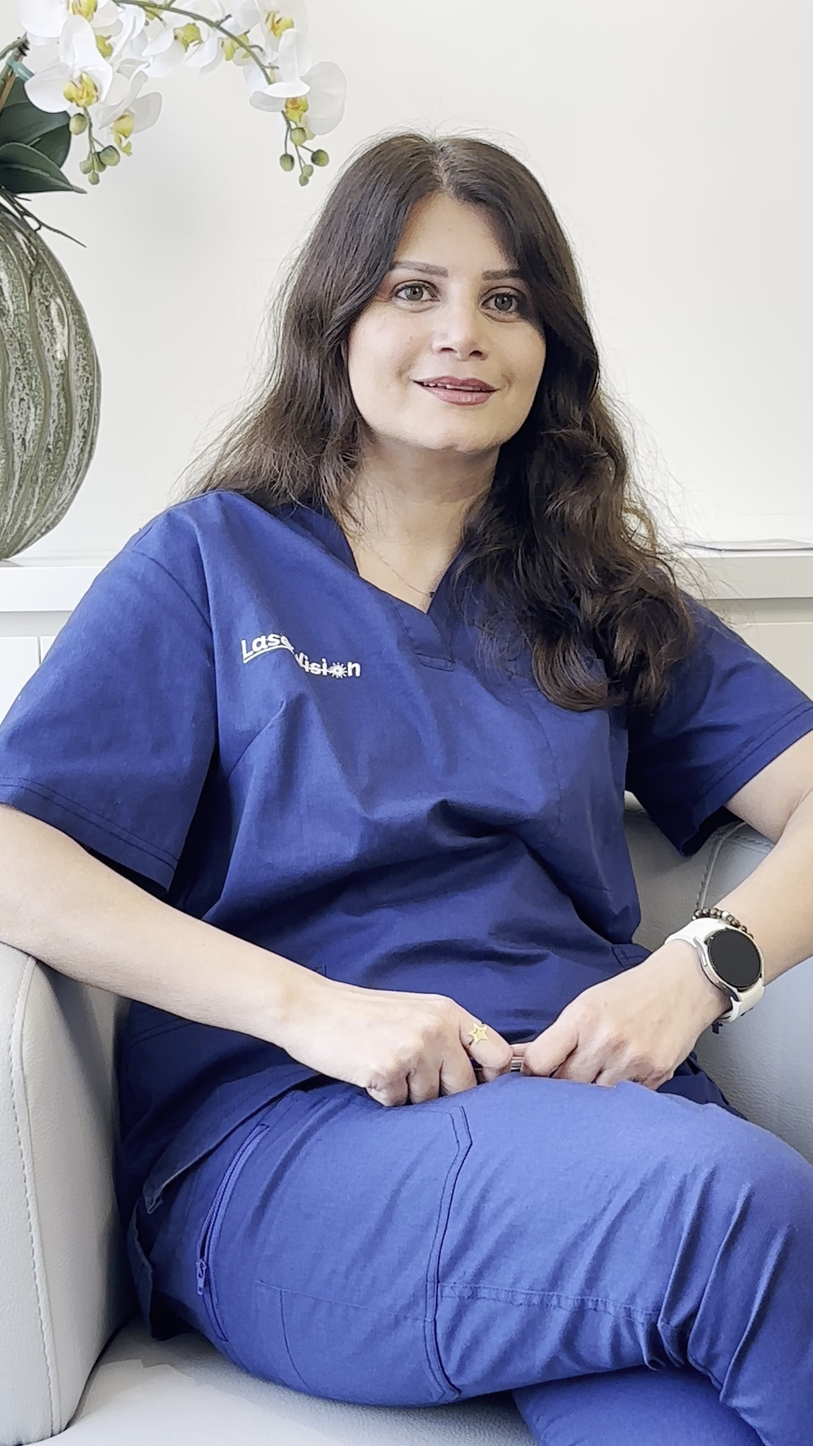
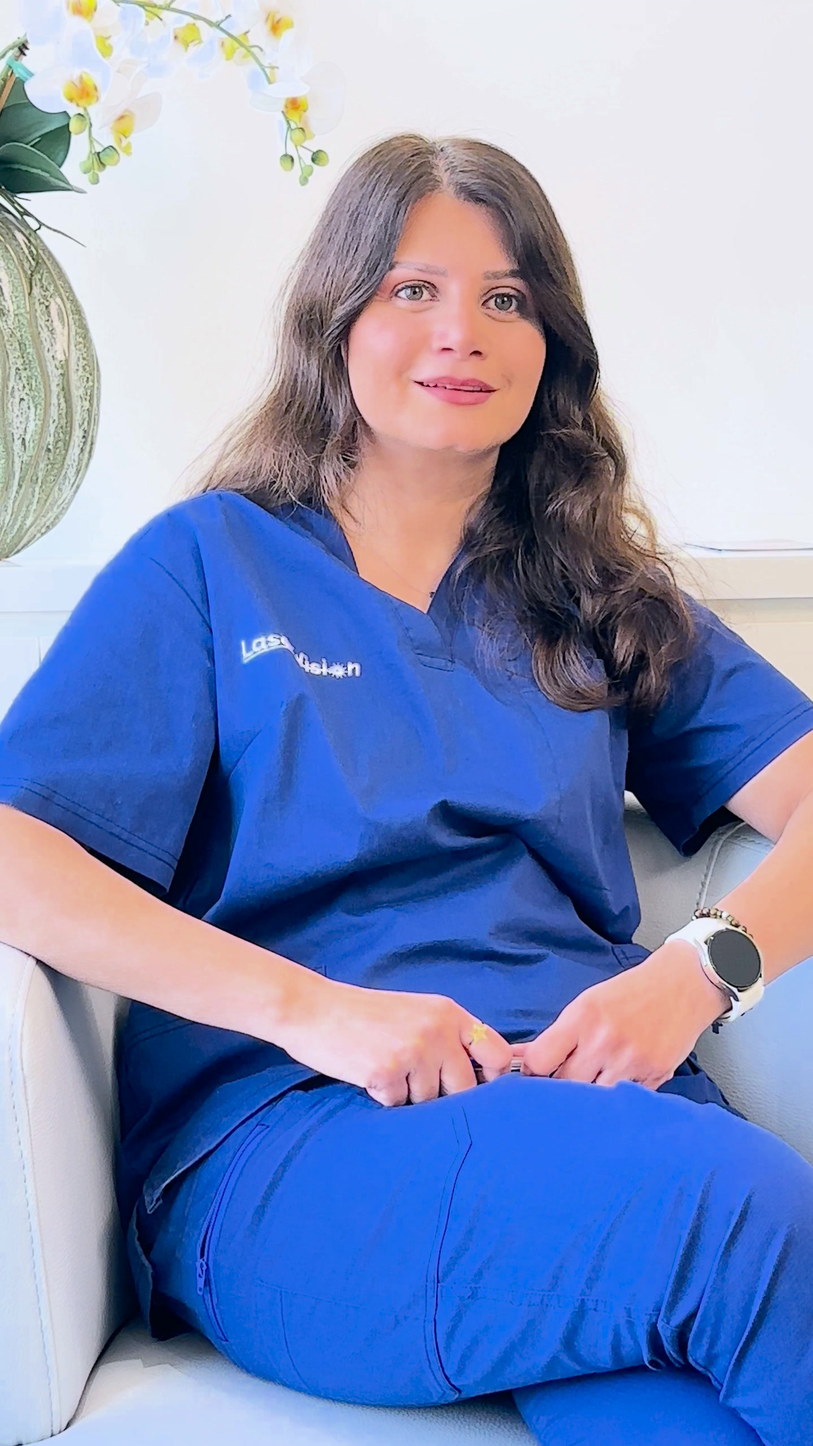
Eye exam reel cover v2: HDR frame tone-mapped properly (was grey/yellow)
Claude-Session: https://claude.ai/code/session_018171GFzD2GfSfAiKEuZ7ds

diff --git a/covers/laservision/eye-exam-vs-vision-test/cover.html b/covers/laservision/eye-exam-vs-vision-test/cover.html
@@ -13,7 +13,7 @@ body{width:1080px;height:1920px;position:relative;overflow:hidden;background:#00
 .h{font-size:108px;line-height:1.08}
 .s{margin-top:44px;font-size:50px}
 </style></head><body>
-<!-- LaserVision · Eye exam vs vision test reel (IMG_1389, 13 Nov). Background: IMG_1389.mov at 0:01.2
+<!-- LaserVision · Eye exam vs vision test reel (IMG_1389, 13 Nov). Background: IMG_1389.mov at 0:01.2, HDR (HLG) tone-mapped to SDR + cooled to 7200 K (v2, 24 Nov: v1 was grey/yellow)
      (mouth closed, soft smile, eyes to camera). Render: Playwright screenshot at 1080×1920. -->
 <div class="bg"></div><div class="scrim"></div>
 <!-- Left sticker: eye chart (the vision test) -->
